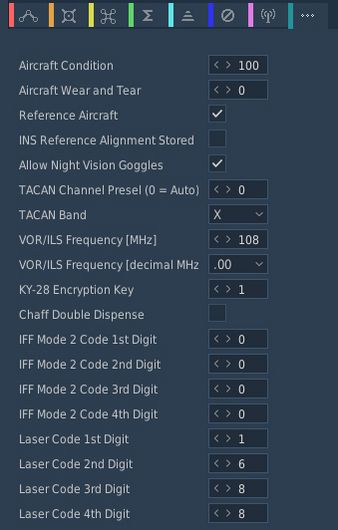
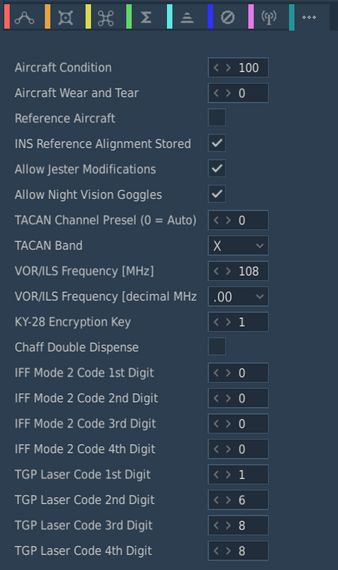
Allow user made Jester mods, explanation, aircraft mission editor option (#352)

diff --git a/src/dcs/modding/jester/lua_api.md b/src/dcs/modding/jester/lua_api.md
@@ -1,7 +1,7 @@
 # Lua API
 
 This gives a quick overview of Lua, which Jester is primarily coded in; and
-explains the Jester API itself.
+explains the Jester API itself, as well as how to create custom mods.
 
 ## Get started with Lua
 
@@ -119,6 +119,48 @@ It is also possible to edit Lua files while DCS runs, without restarting the
 game. Simply edit a LUA file and then reload the DCS mission with
 <kbd>CTRL</kbd>+<kbd>R</kbd> and the new Lua file will be effective.
 
+## User Mods
+
+### Add content
+
+Custom Jester logic is placed in the **Saved Games** folder, within the `jester\mods` subfolder.
+The full path might for example look like:
+
+`C:\Users\John Doe\Saved Games\DCS_F4E\jester\mods`
+
+Any Lua file placed in this folder will be made available and can be loaded
+through for example `require 'MyFile'` within Lua.
+
+Any Lua file placed in the subfolder `jester\mods\init` will not only be made available,
+but also be executed when spawning into the aircraft. This mechanism allows
+announcing your custom content and adding it to Jester through a callback register called `mod_init`:
+
+```lua
+-- Place this in a LUA file in jester\mods\init
+mod_init[#mod_init+1] = function(jester)
+  -- Executed at spawn, use 'jester' to register your logic
+  Log("Hello World!")
+end
+```
+
+> 💡 When the `jester\mods` folder does not exist, it will be automatically created
+> on first spawn of the aircraft. Further, the folder will be pre-populated with
+> a simple `ExampleMod`.
+
+### Replace content
+
+Existing behavior of Jester can be replaced by simply adding a Lua file under
+the same name than the original file you want to replace to the `jester\mods` folder.
+
+For example, in order to replace `MoveRadarAntenna.lua`
+(e.g. `G:\DCS World OpenBeta\Mods\aircraft\F-4E\Jester\radar\MoveRadarAntenna.lua`) with custom logic,
+place a file that is called `MoveRadarAntenna.lua` as well into the modding folder
+(e.g. `C:\Users\John Doe\Saved Games\DCS_F4E\jester\mods\radar\MoveRadarAntenna.lua`).
+
+Now, when the existing logic tries to load this file using `require 'radar.MoveRadarAntenna'`,
+your custom file will be prioritized and loaded instead. To get back the original behavior,
+simply delete your custom file.
+
 ## Jester API
 
 Jesters logic is divided into 6 layers of abstraction:
@@ -130,7 +172,7 @@ Jesters logic is divided into 6 layers of abstraction:
 - Task
 - Action
 
-Code is placed in the Mod-Folder, for example:
+The original logic is located in the DCS Mod-Folder, for example:
 
 `G:\DCS World OpenBeta\Mods\aircraft\F-4E\Jester`
 

diff --git a/src/dcs/mission_editor.md b/src/dcs/mission_editor.md
@@ -118,6 +118,14 @@ the alignment data.
 See the [INS section](../systems/nav_com/ins.md#heading-memory-alignment) for
 details on how to execute a stored alignment.
 
+## Allow Jester Modifications
+
+If checked, players can customize their Jester with user made mods.
+See chapter [9.12.1.2 Lua API](modding/jester/lua_api.md#user-mods) for details.
+
+Unchecked, any Jester mods will be ignored and the player automatically
+uses the original Jester behavior.
+
 ## Allow Night Vision Goggles
 
 Although F-4E crews never actually operated with NVGs, this option allows

diff --git a/src/dcs/modding/jester/overview.md b/src/dcs/modding/jester/overview.md
@@ -5,6 +5,9 @@ has been written by using this API.
 
 ![Jester](../../../img/jester_ai_code.jpg)
 
+> 💡 Mission designers can enforce an unmodified Jester.
+> See chapter [9.10. Mission Editor](../../mission_editor.md#allow-jester-modifications) for details.
+
 The Jester AI primarily consists of:
 
 * logic - written with the [Lua-API](lua_api.md)
